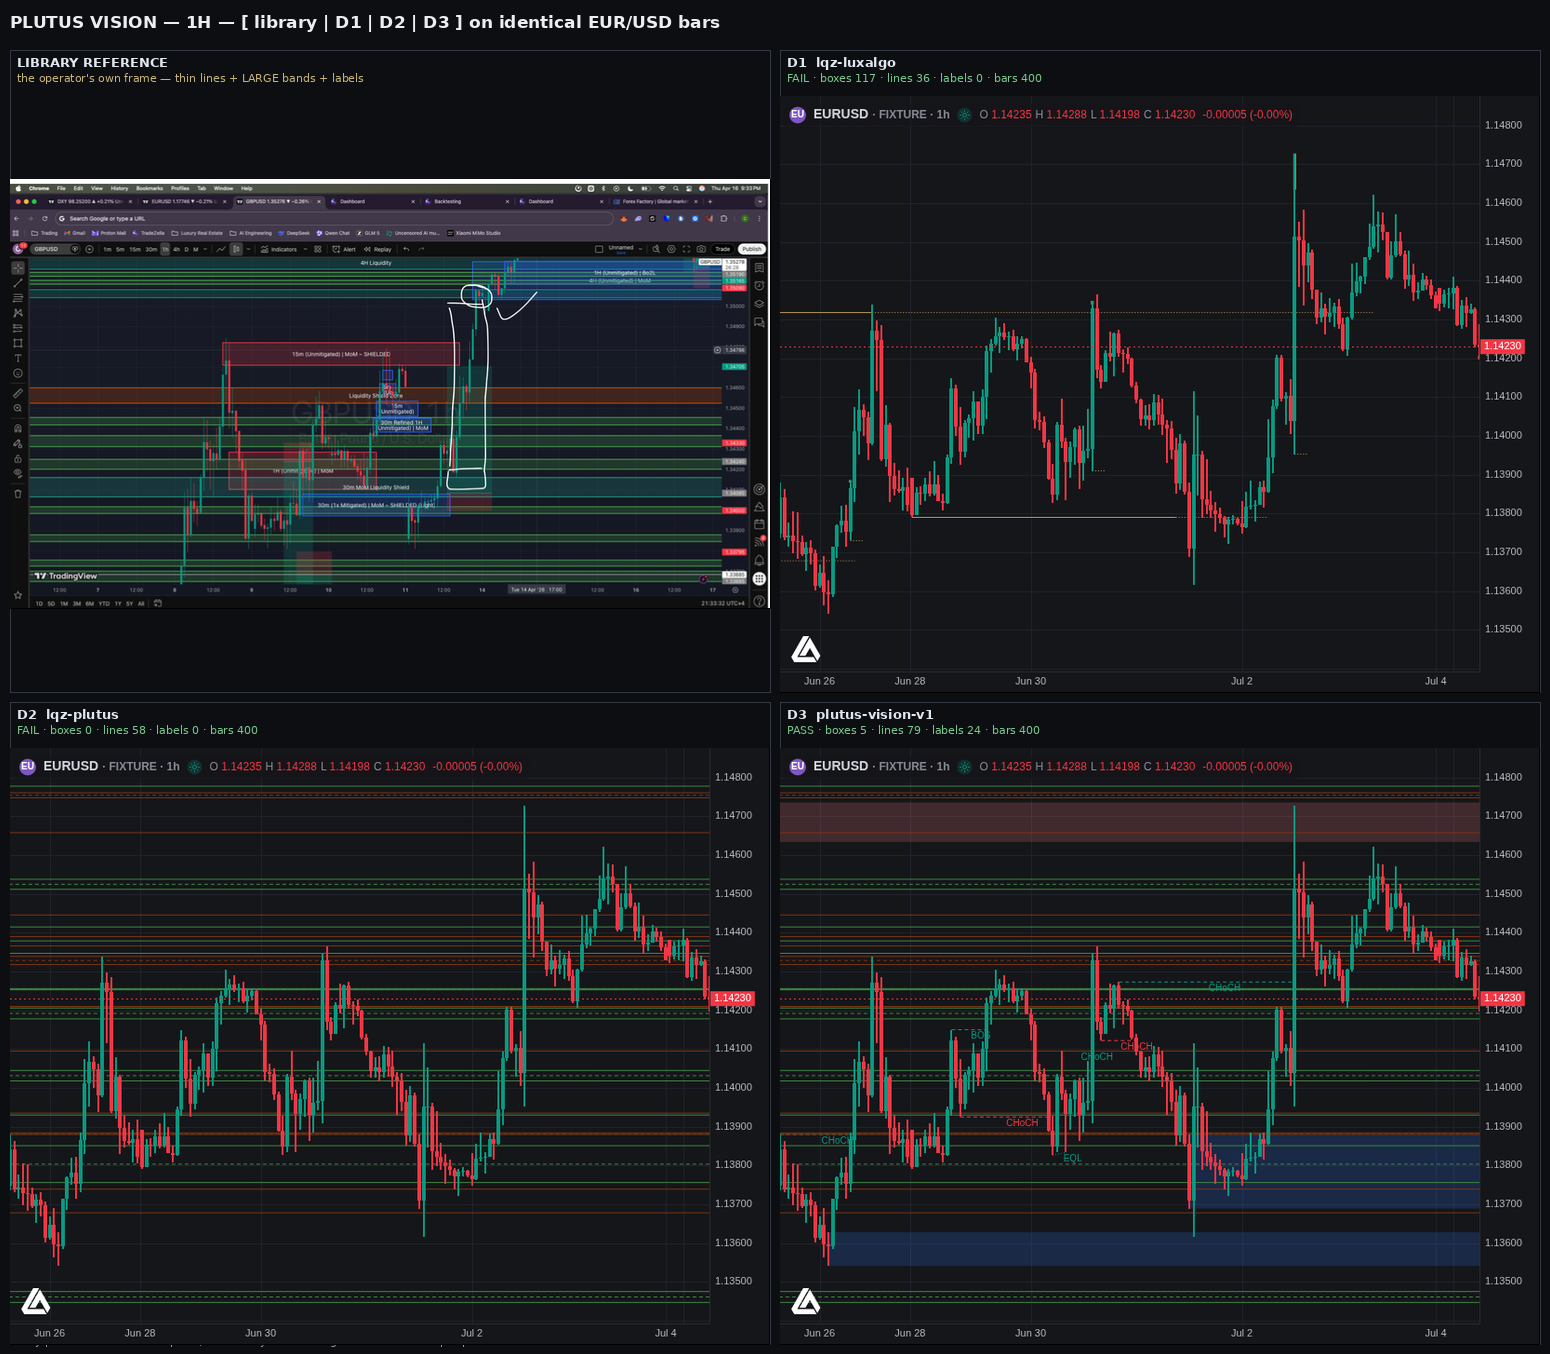
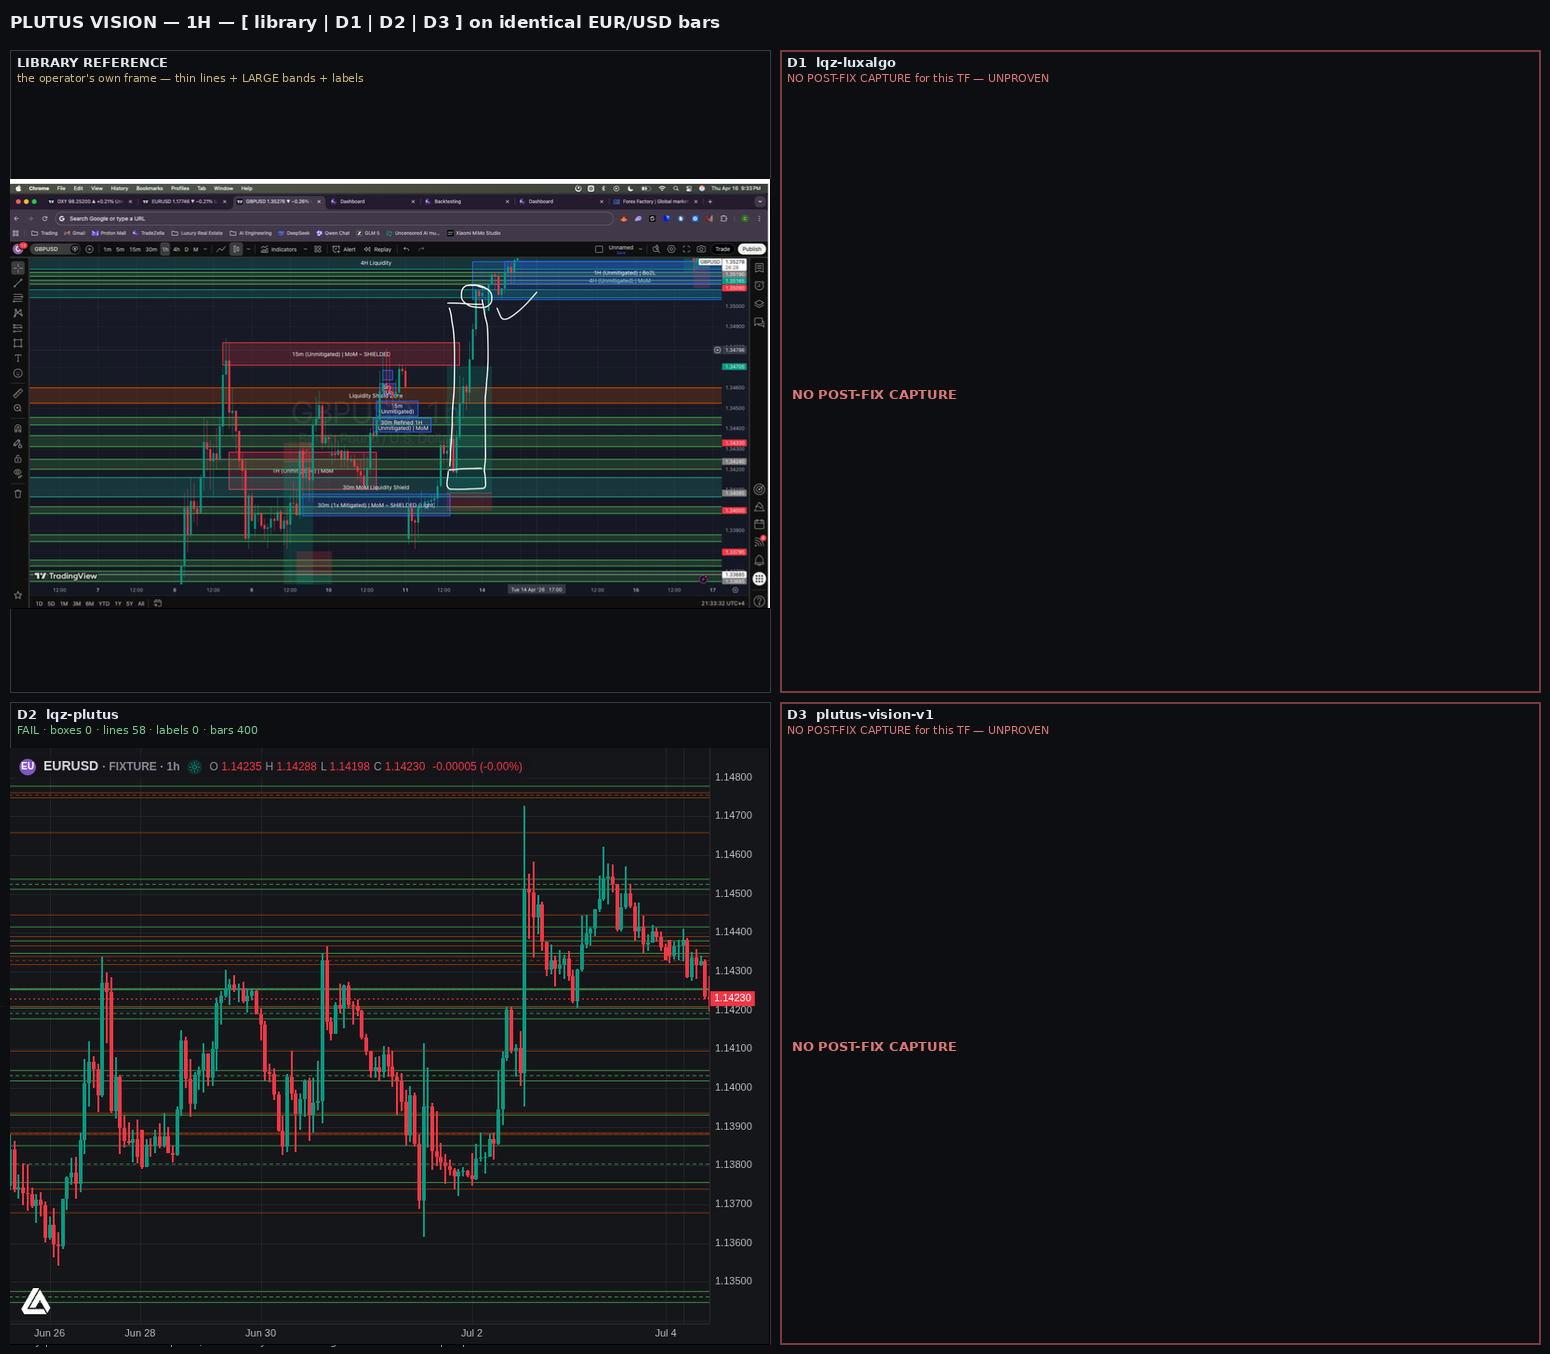
feat(lqz): the grids rebuilt post-fix — the ladder is VISIBLE, and the composer refuses to pass a stale panel as current
D2 landed ALL FOUR timeframes under the NA-guard sha (5295b34e). D3 landed 15m under its
post-fix sha (82da437a). D1 has NONE.

WHAT THE 15m GRID SHOWS, opened by the agent:
- D2: the ladder is NOW FULLY VISIBLE -- green/red/gold thin full-width lines at a dozen
  levels plus a gold band at ~1.14350. It went from invisible to a dense coloured ladder.
- D3: the richest -- a dense coloured ladder to 1.14600, a large red band (1.14600-1.14620),
  and TWELVE structure labels.
- D1: marked 'NO POST-FIX CAPTURE for this TF -- UNPROVEN' IN RED.

THE COMPOSER CHANGE: a missing post-fix panel now renders as an explicitly-marked empty cell
rather than falling back to a superseded row. A panel whose ledger row was made under an OLD
pineSha shows the INVISIBLE ladder -- rendering it unmarked would pass a stale artifact off as
the current state, which is the class this project refuses.

INFRASTRUCTURE DEFECTS RECORDED: the compositor freezes under repeated runs (a reload is the
remedy, but it resets the editor and P.run() can return null on a fresh page); a fresh page
needs a longer mount wait than 14s.

REMAINING: D1 x 4 TFs and D3 x 3 TFs to complete the post-fix grid set.

diff --git a/scripts/lqz_panel_ide.py b/scripts/lqz_panel_ide.py
@@ -75,6 +75,9 @@ def compose(tf, best, out_dir):
         sha = next((k for k in {kk[0] for kk in best} if k.startswith(want)), None)
         r = best.get((sha, tf)) if sha else None
         if not r:
+            # NO POST-FIX ROW FOR THIS TF. Say so rather than falling back to an old one.
+            panels.append({"cap": nm, "sub": "NO POST-FIX CAPTURE for this TF — UNPROVEN",
+                           "path": None, "stale": True})
             continue
         c = r["counts"]
         panels.append({
@@ -82,6 +85,7 @@ def compose(tf, best, out_dir):
             "sub": f"{r.get('readerVerdict')} · boxes {c['boxes']} · lines {c['lines']} · labels {c['labels']} · bars {c['bars']}",
             "path": str(pathlib.Path(r["pngPath"])),
             "created": str(r.get("createdAt") or "")[:19],
+            "stale": False,
         })
     if len(panels) < 4:
         print(f"  {tf}: only {len(panels)} panels — SKIPPED")
@@ -104,6 +108,12 @@ def compose(tf, best, out_dir):
         col, row = i % 2, i // 2
         x = GAP + col * (W + GAP)
         y = 40 + GAP + row * (H + HEAD + GAP)
+        if p.get("stale") or not p.get("path"):
+            d.rectangle([x, y, x + W, y + HEAD + H], outline=(120, 60, 60), width=2)
+            d.text((x + 12, y + HEAD + H // 2 - 8), "NO POST-FIX CAPTURE", font=fb, fill=(220, 120, 120))
+            d.text((x + 7, y + 4), p["cap"], font=fb, fill=(226, 232, 240))
+            d.text((x + 7, y + 21), p["sub"], font=fs, fill=(220, 120, 120))
+            continue
         im = Image.open(p["path"]).convert("RGB")
         s = min(W / im.width, H / im.height)
         im = im.resize((max(1, int(im.width * s)), max(1, int(im.height * s))), Image.LANCZOS)
